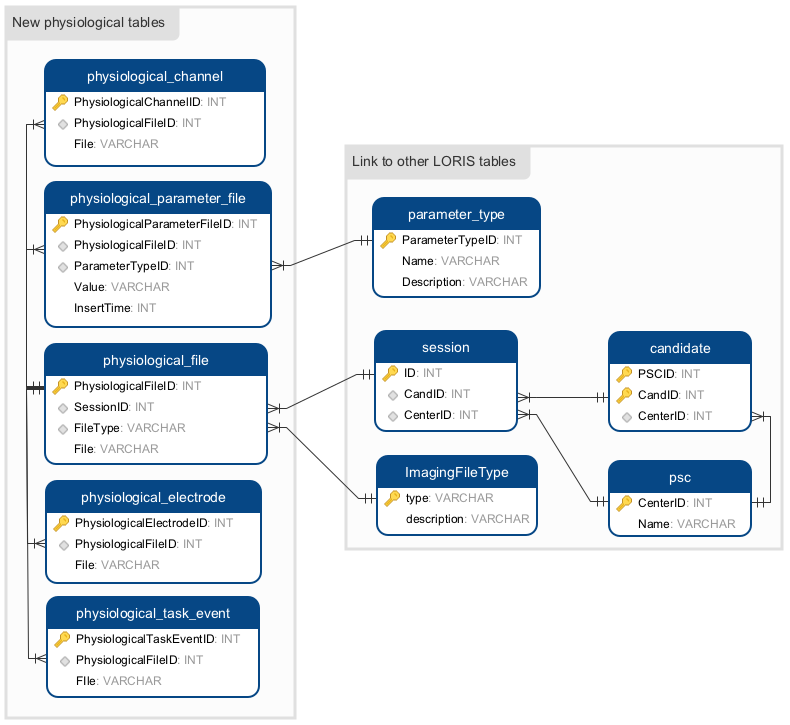
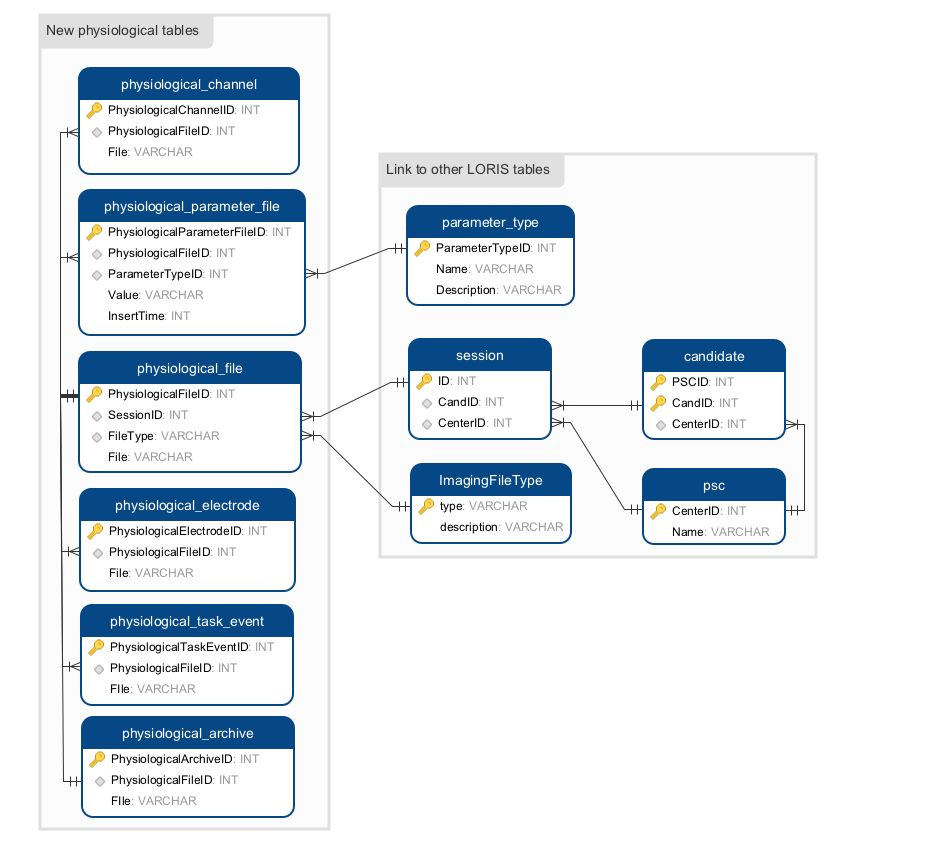
updated the graph of the database EEG tables

Changed region(s): [[0.0, 0.0, 1.0, 1.0]]

diff --git a/docs/03-TechnicalInfrastructure.md b/docs/03-TechnicalInfrastructure.md
@@ -454,5 +454,16 @@ entry will be inserted in this table. This table is linked to the
 ![PhysiologicalTaskTables](images/PhysiologicalTaskTables.png)
 
 
+### 3.2.2.5 The `physiological_archive` table
+
+The `physiological_archive` table will contain the path to the archive of all BIDS 
+files for a given physiological file (including the electrode.tsv, channel.tsv and 
+event.tsv files that comes with the electrophysiological recording). It was decided
+to create an archive of those files for easier download directly from the View 
+Session page of the Electrophysiological Browser module. This table is linked to the
+`physiological_file` table via the `PhysiologicalFileID` foreign key.
+
+![PhysiologicalArchiveTable](images/PhysiologicalArchiveTable.png)
+
 
 [1]: http://bids.neuroimaging.io/bids_spec.pdf
